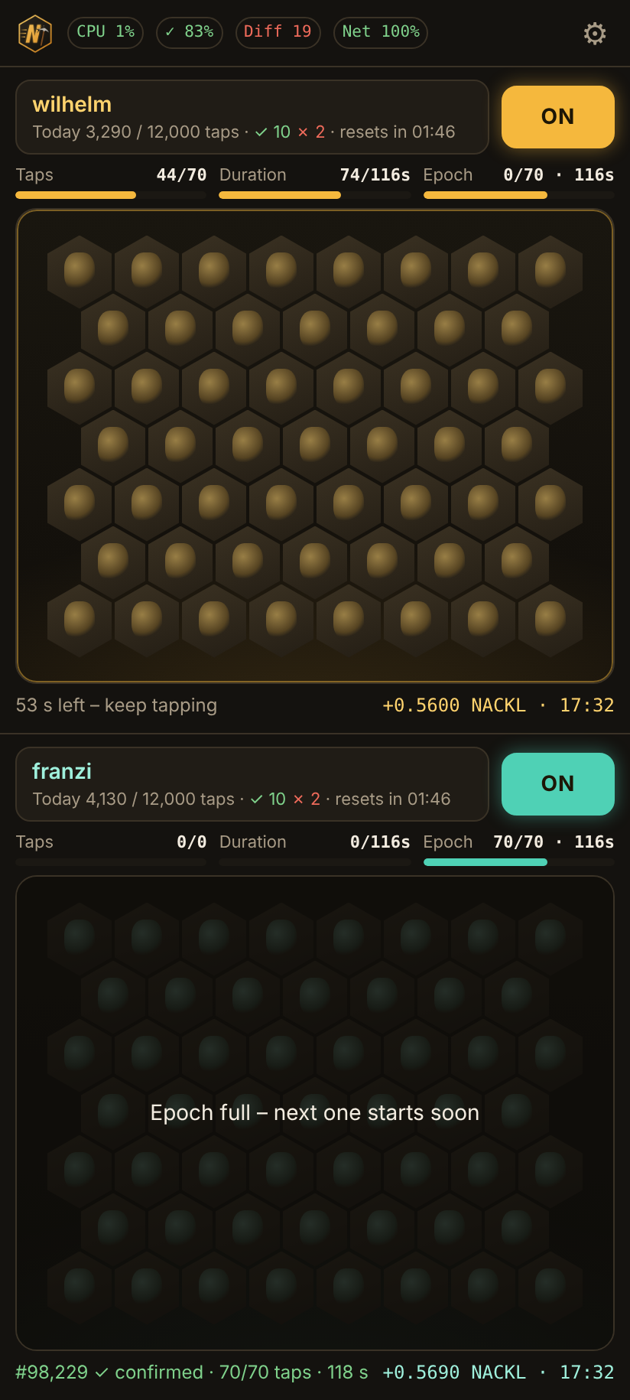
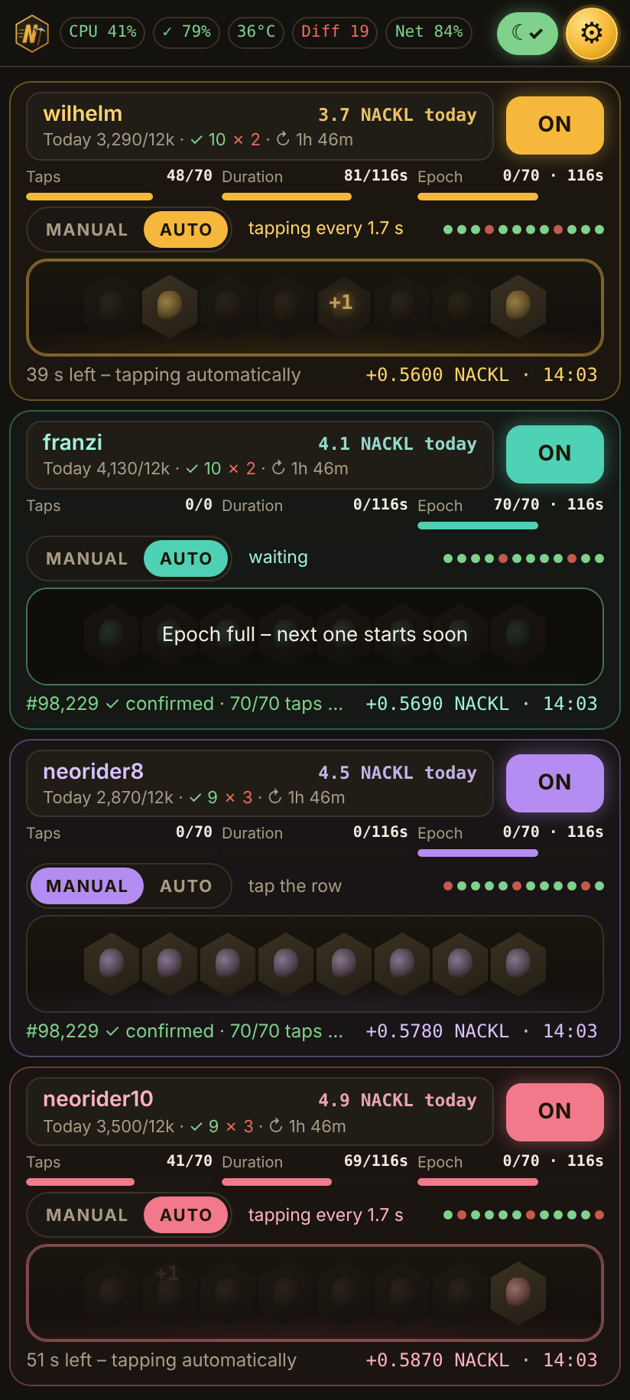
8wallets auto +++

Changed region(s): [[0.0, 0.0, 0.9952, 1.0], [0.2413, 0.0, 0.2714, 0.0307]]

diff --git a/README.md b/README.md
@@ -5,9 +5,11 @@
 <h1 align="center">NeoRiders Nackl Digger</h1>
 
 <p align="center">
-  Android app for mining <b>NACKL</b> with the Acki Nacki Bee Engine – up to <b>four wallets at once</b>, one tap pad each.<br>
-  <b>No auto-tapper.</b> Every tap is a real finger on the screen.
+  Android app for mining <b>NACKL</b> with the Acki Nacki Bee Engine – <b>2 to 8 wallets at once</b> on one phone or tablet.<br>
+  The app taps for you (<b>AUTO</b>), keeps digging with the screen off, and claims your rewards.
 </p>
+
+> 🚀 **Coming soon:** the new version with **AUTO mode, 2–8 wallets, background mode and performance test** is ready and will be released **right after the Acki Nacki node update to 1.0.8**. This page already shows it – the current download is still the manual version.
 
 <p align="center">
   <a href="https://github.com/NeoRider12/Nackl-Digger/releases/latest"><b>⬇ Download the latest APK</b></a>
@@ -15,48 +17,77 @@
 </p>
 
 <p align="center">
-  <img src="docs/screenshots/NacklDigger-Android-portrait.png" height="460" alt="Tablet, four wallets">
-  <img src="docs/screenshots/NacklDigger-Android-phone.png" height="460" alt="Phone, two wallets">
-  <img src="docs/screenshots/NacklDigger-Android-wallet-sheet.png" height="460" alt="Wallet sheet with epochs and payouts">
+  <img src="docs/screenshots/NacklDigger-Android-landscape.png" width="860" alt="Tablet in landscape with eight wallets">
 </p>
-<p align="center"><em>Tablet with four wallets · phone with two · wallet sheet with epochs and payouts (demo values)</em></p>
+<p align="center"><em>Tablet with eight wallets in AUTO, today's NACKL next to each name (demo values)</em></p>
 
 ---
+
+## Top features
+
+- 🐝 **2, 4, 6 or 8 wallets on one device** – one tap row per wallet, each on its own CPU core
+- 🤖 **AUTO by default** – a tap every 1.714 s per wallet, evenly spread, every tap visible in the row. Prefer your own finger? Switch a wallet to **MANUAL**
+- ⚡ **Performance test** in ⚙ Settings – measures your device and tells you how many wallets it can run
+- 🌙 **Background mode (optional)** – reliable digging with the screen off: ☾ BG in the header, with a step-by-step setup (notifications, battery, manufacturer settings) and a notification with a Stop button
+- 📶 **Network-friendly with many wallets** – staggered starts and sessions, shared status reads, smart resubmission and endpoint failover
+- 💰 **Today's NACKL next to every wallet**, rewards claimed automatically, per-epoch overview of sessions and payouts
+- 🔒 **Your wallet key never leaves the AN Wallet** – no account, no ads, no tracking
+
+<p align="center">
+  <img src="docs/screenshots/NacklDigger-Android-phone.png" height="460" alt="Phone with four wallets">
+  <img src="docs/screenshots/NacklDigger-Android-performance-test.png" height="460" alt="Performance test in the settings">
+  <img src="docs/screenshots/NacklDigger-Android-background-mode.png" height="460" alt="Background mode setup">
+</p>
+<p align="center"><em>Phone with four wallets · performance test · background mode setup (demo values)</em></p>
 
 ## In 60 seconds
 
 1. **Install** the APK from [Releases](https://github.com/NeoRider12/Nackl-Digger/releases/latest).
-2. **Pair** your AN Wallet: tap a pad → *Wallet Connect* → confirm the connection and the mining key in the AN Wallet.
-3. **Switch the wallet ON and tap.** 70 taps over about 2 minutes count per epoch (~5.5 min).
-4. The app **submits** your session and shows `✓ confirmed` or `✗ …` under the pad. **NACKL arrives** in your wallet a few minutes later – the app even claims it for you.
+2. **Pair** your AN Wallet: tap a wallet → *Wallet Connect* → confirm the connection and the mining key in the AN Wallet.
+3. **Switch the wallet ON** – it starts in **AUTO** and the app taps every 1.7 s for you (70 taps over about 2 minutes count per epoch of ~5.5 min).
+4. Optional: tap **☾ BG** to keep digging with the screen off, and run ⚙ → **Performance test** before adding more wallets.
+5. The app **submits** each session and shows `✓ confirmed` or `✗ …`. **NACKL arrives** in your wallet a few minutes later – the app claims it for you.
 
-## Features
+## All features
 
 **Mining**
-- **2 or 4 tap pads**, one wallet each (4 on tablets), multi-touch
-- **Multi-core:** every wallet computes its proof on its own CPU core
-- **Epoch-aware:** shows taps, duration and time left in the epoch; waits for the next epoch instead of starting a session that could not finish in time
+- **2, 4, 6 or 8 wallets** on phones and tablets – as many as your device handles (see the performance test); tablet layouts 3 × 2 / 4 × 2, phones scroll
+- **AUTO or MANUAL per wallet** – AUTO is the default and has no knobs to get wrong; MANUAL lets you tap yourself
+- **Multi-core:** every wallet computes its proof on its own CPU core; the engine is compiled once for all wallets
+- **Performance test:** one core, then 2/4/6/8 cores at once, at the current difficulty – with a recommendation
+- **Epoch-aware:** shows taps, duration and time left; waits for the next epoch instead of starting a session that could not finish in time
+
+**Background mode (optional)**
+- Keeps taps, submissions and reward claims running with the screen off or another app in front
+- Setup sheet with checklist: notifications, *no battery restrictions*, and the exact menu path for Samsung, Xiaomi/Redmi, Huawei/Honor, Oppo/Realme/OnePlus, Vivo and Asus
+- Permanent notification with live status and a Stop button; runs only while a wallet is ON
 
 **When the network is busy**
 - **Smart resubmission:** root and proof are signed once and resent unchanged on *queue full*, timeouts and gateway errors – the node recognises repeats instead of queueing copies
+- **Staggered starts and sessions:** wallets don't hit the node in the same second
+- **Shared reads:** identical status requests of several wallets go out once
 - **Two endpoints with failover:** `mainnet` and `mainnet-cf`
-- **Self-healing:** reads the session state from the contract if the node's events don't arrive, clears a stuck session on chain before the next one, auto-restore after repeated failures
+- **Self-healing:** reads the session state from the contract if the node's events don't arrive, clears a stuck session on chain, auto-restore after repeated failures
 
 **Payouts**
-- **Automatic claiming:** a confirmed epoch is only paid out with the wallet's next successful session – if that does not come in time, the app sends `get_reward` itself, so rewards don't expire
+- **Automatic claiming:** if a confirmed epoch is not paid out with the next session in time, the app sends `get_reward` itself, so rewards don't expire
+- **NACKL today** next to every wallet name (current 24-h day)
 - **Per-epoch overview:** status, taps and NACKL received for every session; last payout with time on the main screen
+- **Wallet sheet:** today's total, locked and unlocked balance
+
+<p align="center">
+  <img src="docs/screenshots/NacklDigger-Android-portrait.png" height="520" alt="Tablet in portrait with eight wallets">
+  <img src="docs/screenshots/NacklDigger-Android-wallet-sheet.png" height="520" alt="Wallet sheet with epochs and payouts">
+</p>
+<p align="center"><em>Tablet in portrait with eight wallets · wallet sheet with epochs and payouts (demo values)</em></p>
 
 **Comfort & safety**
-- Header with CPU load, success rate, mining difficulty, network quality and device temperature
-- Heat protection, daily tap limit, optional off/on at the new 24-h epoch
-- **Encrypted backup** of settings and pairings (restore after reinstalling)
+- Header with CPU load, success rate, difficulty, network quality and device temperature
+- Heat protection, daily tap limit, optional off/on at the new 24-h epoch – can also be applied to the day already running
+- **Encrypted backup** of settings and all pairings (restore after reinstalling)
 - Optional screen dimming while digging, exportable log
 
 The app ID was issued by the Acki Nacki team, and the app is shared with their permission.
-
-<p align="center">
-  <img src="docs/screenshots/NacklDigger-Android-landscape.png" width="720" alt="Tablet in landscape">
-</p>
 
 ## Network upgrade status
 
@@ -74,6 +105,15 @@ Live page showing how many Acki Nacki block keepers support the next node versio
 **Before uninstalling:** ⚙ → *Backup* → *Save backup to Downloads*, so you can restore everything afterwards.
 
 ## FAQ
+
+**AUTO or MANUAL?**
+AUTO is the easy way: switch it on and let the app dig. It only taps while the wallet is ON and a session can still finish in the epoch, and it respects the daily limit. Run ⚙ → *Performance test* once to see how many wallets your device keeps up with.
+
+**How many wallets can my device run?**
+Open ⚙ → *Performance test* (about 15 s, best with all wallets off). It measures your device at the current difficulty and recommends 2, 4 or 8 wallets. With 8 wallets keep an eye on the temperature in the header during the first hour – heat protection switches wallets off if the device gets too hot.
+
+**Can I switch the screen off?**
+Yes, with ☾ **BG** (background mode) in the header. It shows a notification while it runs and asks once for notifications and *no battery restrictions*. On Xiaomi/Redmi, Samsung and some other brands also allow *Autostart* / *Never sleeping apps* – the setup sheet shows where to find it. Don't swipe the app away in the recent-apps list.
 
 **My sessions say "not confirmed" – is the app broken?**
 Most likely the network is overloaded: the nodes accept the submission but cannot process it in time. This hits every mining app equally. The *Net* badge in the header shows how many sessions currently get through. The app keeps retrying, clears leftovers and claims payouts automatically – just keep digging.
